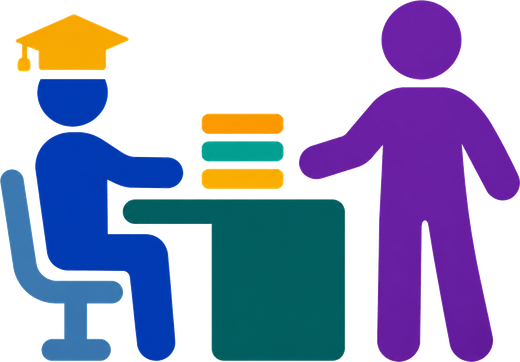
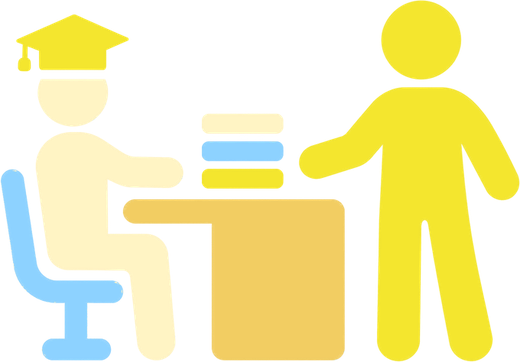
Escolha de área: ícones novos e continua na escolha ao atualizar a página
Claude-Session: https://claude.ai/code/session_01SXNKBVat7ci1KTwJ3jhYKm

diff --git a/index.html b/index.html
@@ -66,7 +66,7 @@ body:not([data-tela="areas"]) #areas{display:none}
 .areas2{display:grid;grid-template-columns:1fr 1fr;gap:18px}
 .area{position:relative;overflow:hidden;display:flex;flex-direction:column;gap:10px;text-align:left;text-decoration:none;color:var(--ink);background:rgba(21,28,46,.82);border:1px solid #2B3654;border-radius:22px;padding:26px 24px;cursor:pointer;font:inherit;transition:transform .15s,border-color .15s}
 .area:hover,.area:focus-visible{transform:translateY(-3px);border-color:var(--azul);outline:none}
-.area .ai{height:120px;width:auto;align-self:flex-start;margin-bottom:6px;filter:drop-shadow(0 0 1px rgba(255,255,255,.55)) drop-shadow(0 6px 16px rgba(0,0,0,.35))}
+.area .ai{height:120px;width:auto;align-self:flex-start;margin-bottom:6px;filter:drop-shadow(0 6px 16px rgba(0,0,0,.35))}
 #areas{position:relative}#areas>*:not(.arhex){position:relative;z-index:1}
 .arhex{position:fixed;right:-6%;top:50%;transform:translateY(-50%);width:min(760px,62vw);height:auto;opacity:.09;z-index:0;pointer-events:none;filter:saturate(1.2)}
 @media (max-width:720px){.arhex{width:110vw;right:-35%;opacity:.07}.area .ai{height:96px}}
@@ -196,7 +196,7 @@ async function depois(){if(volta){location.replace(volta);return;}
     if(ar.papel==='admin'){$('arTit').textContent='Olá, Prof. Jazz! Para onde vamos?';}else{$('arTurmaTx').textContent='A sua turma do PREPARA UFU: Banco de Questões, Sala de Estudos, Agenda e Materiais.';$('arMentTx').textContent='A sua mentoria individual com o Prof. Jazz: plano de estudos, encontros, cronograma e materiais.';}
     let esc_=null;try{esc_=sessionStorage.getItem('bqufu-area');}catch(e){}
     const pede=new URLSearchParams(location.search).get('area')==='escolher';
-    if(pede)history.replaceState(null,'','/');
+    if(pede){history.replaceState(null,'','/');try{sessionStorage.removeItem('bqufu-area');}catch(e){}}
     if(esc_==='turma'&&!pede){tela('home');return;}
     tela('areas');return;}
   tela('home');}
@@ -223,7 +223,7 @@ $('sairTopo').onclick=async()=>{try{sessionStorage.removeItem('bqufu-area');sess
 inicio();
 })();
 </script>
-<script>(function(){var V='1795555344';var K='bqufu-recarga-';
+<script>(function(){var V='1795555840';var K='bqufu-recarga-';
 function aberto(){return !!document.querySelector('.cdlg,.dlg,#printArea')||document.body.classList.contains('imprimindo');}
 function confere(forcar){fetch('/versao.txt?'+Date.now(),{cache:'no-store'}).then(function(r){return r.ok?r.text():null}).then(function(t){t=t&&t.trim();if(!t||t===V)return;
   try{if(sessionStorage.getItem(K+t))return;}catch(e){}
@@ -233,6 +233,6 @@ confere(true);
 document.addEventListener('visibilitychange',function(){if(document.visibilityState==='visible')confere(false);});
 window.addEventListener('focus',function(){confere(false);});
 setInterval(function(){if(document.visibilityState==='visible')confere(false);},180000);})();</script>
-<script src="js/presenca.js?v=1795555344" defer></script>
+<script src="js/presenca.js?v=1795555840" defer></script>
 </body>
 </html>

diff --git a/aulas/index.html b/aulas/index.html
@@ -180,7 +180,7 @@ textarea{min-height:70px;resize:vertical}
 <div id="exBar" hidden>Modo aluno exemplo — é assim que o aluno da turma <select id="exTurma"><option value="assessoria">Assessoria PREPARA UFU</option><option value="matematica">Curso de Matemática</option></select> vê esta página. <button type="button" id="exSair">Sair do modo exemplo</button></div>
 <main id="app"></main>
 
-<script>(function(){var V='1795555344';var K='bqufu-recarga-';
+<script>(function(){var V='1795555840';var K='bqufu-recarga-';
 function aberto(){return !!document.querySelector('.cdlg,.dlg,#printArea')||document.body.classList.contains('imprimindo');}
 function confere(forcar){fetch('/versao.txt?'+Date.now(),{cache:'no-store'}).then(function(r){return r.ok?r.text():null}).then(function(t){t=t&&t.trim();if(!t||t===V)return;
   try{if(sessionStorage.getItem(K+t))return;}catch(e){}
@@ -394,6 +394,6 @@ function editarPasta(p){const nova=!p;p=p||{nome:'',descricao:'',turmas:['assess
     if(L.length)await SB.storage.from('materiais').remove(L.map(x=>x.path));if(p.capa)await SB.storage.from('capas').remove([p.capa]);const {error}=await SB.from('pastas').delete().eq('id',p.id);if(error){msg(error.message);return;}fecha();await carregar();desenhaPastas();};}
 entrar();
 </script>
-<script src="../js/presenca.js?v=1795555344" defer></script>
+<script src="../js/presenca.js?v=1795555840" defer></script>
 </body>
 </html>

diff --git a/estudos/index.html b/estudos/index.html
@@ -205,7 +205,7 @@ select,input[type=number],input[type=text]{font:500 16px var(--body);padding:11p
 <div id="exBar" hidden>Modo aluno exemplo — é assim que o aluno vê. <button type="button" id="exSair">Sair do modo exemplo</button></div>
 <main id="app"><p class="pend">Carregando…</p></main>
 
-<script>(function(){var V='1795555344';var K='bqufu-recarga-';
+<script>(function(){var V='1795555840';var K='bqufu-recarga-';
 function aberto(){return !!document.querySelector('.cdlg,.dlg,#printArea')||document.body.classList.contains('imprimindo');}
 function confere(forcar){fetch('/versao.txt?'+Date.now(),{cache:'no-store'}).then(function(r){return r.ok?r.text():null}).then(function(t){t=t&&t.trim();if(!t||t===V)return;
   try{if(sessionStorage.getItem(K+t))return;}catch(e){}
@@ -484,6 +484,6 @@ async function telaDen(){abas('tabDen');$('app').innerHTML='<p class="pend">Carr
   $('app').querySelectorAll('[data-r]').forEach(b=>b.onclick=async()=>{await SB.rpc('admin_resolver',{p_id:+b.dataset.id,p:b.dataset.r==='1'});telaDen();});}
 entrar();
 </script>
-<script src="../js/presenca.js?v=1795555344" defer></script>
+<script src="../js/presenca.js?v=1795555840" defer></script>
 </body>
 </html>

diff --git a/mentoria/index.html b/mentoria/index.html
@@ -388,7 +388,7 @@ body{animation:fadein .25s ease}@keyframes fadein{from{opacity:0}to{opacity:1}}
 <div id="exBar" hidden><span id="exTxt"></span> <button type="button" id="exPuro"></button> <button type="button" id="exSair">Voltar aos mentorados</button><button type="button" id="exTroca" hidden></button></div>
 <main id="app"></main>
 
-<script>(function(){var V='1795555344';var K='bqufu-recarga-';
+<script>(function(){var V='1795555840';var K='bqufu-recarga-';
 function aberto(){return !!document.querySelector('.cdlg,.dlg,#printArea')||document.body.classList.contains('imprimindo');}
 function confere(forcar){fetch('/versao.txt?'+Date.now(),{cache:'no-store'}).then(function(r){return r.ok?r.text():null}).then(function(t){t=t&&t.trim();if(!t||t===V)return;
   try{if(sessionStorage.getItem(K+t))return;}catch(e){}
@@ -1764,6 +1764,6 @@ label.btn{display:inline-flex;align-items:center;cursor:pointer}
 .mvenc b{font:800 18px var(--display)}.mvenc p{margin:4px 0 0;line-height:1.5}
 </style>
 
-<script src="../js/presenca.js?v=1795555344" defer></script>
+<script src="../js/presenca.js?v=1795555840" defer></script>
 </body>
 </html>

diff --git a/assessoria/index.html b/assessoria/index.html
@@ -388,7 +388,7 @@ body{animation:fadein .25s ease}@keyframes fadein{from{opacity:0}to{opacity:1}}
 <div id="exBar" hidden>Modo aluno exemplo — é assim que o aluno vê. Nada aqui entra nas estatísticas da turma. <button type="button" id="exSair">Sair do modo exemplo</button></div>
 <main id="app"></main>
 
-<script>(function(){var V='1795555344';var K='bqufu-recarga-';
+<script>(function(){var V='1795555840';var K='bqufu-recarga-';
 function aberto(){return !!document.querySelector('.cdlg,.dlg,#printArea')||document.body.classList.contains('imprimindo');}
 function confere(forcar){fetch('/versao.txt?'+Date.now(),{cache:'no-store'}).then(function(r){return r.ok?r.text():null}).then(function(t){t=t&&t.trim();if(!t||t===V)return;
   try{if(sessionStorage.getItem(K+t))return;}catch(e){}
@@ -1210,6 +1210,6 @@ async function entrar(){const {data:{session}}=await SB.auth.getSession();if(!se
 $('sair').onclick=async()=>{await SB.auth.signOut();location.href='/';};
 entrar();
 </script>
-<script src="../js/presenca.js?v=1795555344" defer></script>
+<script src="../js/presenca.js?v=1795555840" defer></script>
 </body>
 </html>

diff --git a/bancodequestoes/index.html b/bancodequestoes/index.html
@@ -227,7 +227,7 @@ td.h{font-weight:700}.z{color:var(--line)}
     <p class="msg" id="pdfMsg" role="status"></p>
   </aside>
 </div>
-<script>(function(){var V='1795555344';var K='bqufu-recarga-';
+<script>(function(){var V='1795555840';var K='bqufu-recarga-';
 function aberto(){return !!document.querySelector('.cdlg,.dlg,#printArea')||document.body.classList.contains('imprimindo');}
 function confere(forcar){fetch('/versao.txt?'+Date.now(),{cache:'no-store'}).then(function(r){return r.ok?r.text():null}).then(function(t){t=t&&t.trim();if(!t||t===V)return;
   try{if(sessionStorage.getItem(K+t))return;}catch(e){}
@@ -600,6 +600,6 @@ $('admList').onclick=async ev=>{const z=ev.target.dataset.z,r=ev.target.dataset.
   if(r&&confirm('Remover o acesso de '+r+'?')){await SB.rpc('admin_zerar_senha',{e:r});const {error}=await SB.from('allowed_emails').delete().eq('email',r);am(error?error.message:'Acesso removido: '+r);await admLoad();}};
 entrar();
 </script>
-<script src="../js/presenca.js?v=1795555344" defer></script>
+<script src="../js/presenca.js?v=1795555840" defer></script>
 </body>
 </html>
